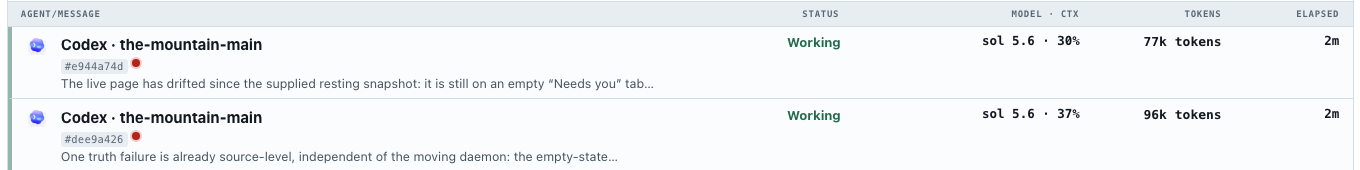
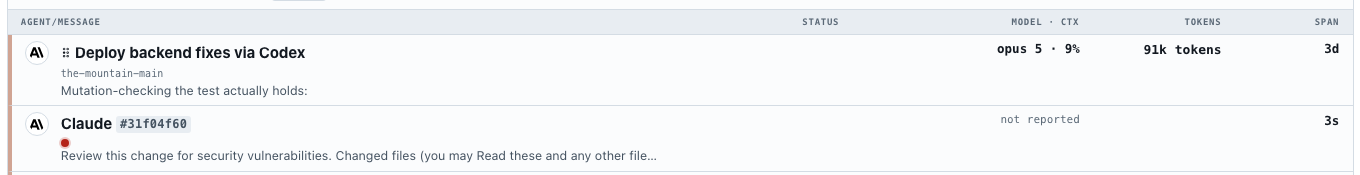
docs(guide): retake the row shot and rename Elapsed to Span
Captured on branch fix/backend-silent-failures-and-freshness at fe54c05, with
the service verified stable first — same pid 55609 and health 200 across three
probes four seconds apart, so nothing here is a mid-restart frame.

shot-5-row was the stale one. It showed the column header "ELAPSED", renamed to
"Span" by fe54c05, and it printed "Working" in the status column, which the
current build never renders — 74001c4 stopped printing what the tab already
guarantees. The retake shows both: the header reads Span, and the status column
is genuinely blank, which is what the guide's status row now describes.

Elapsed becomes Span in the row table, with the meaning the fix gave it: first
activity to last activity, dormancy included, NOT time spent working. One agent
read 87.1 days and the arithmetic was right — startedAt really was 2026-05-06.
Safe to document because this fix has landed; verified at app.js:3696.

HELD, and this is the part worth flagging. "N done this hour" is magnitude-audit
item 1, the worst of the six and the only one whose error is unbounded — it
counts state transitions rather than completions, can count one agent twice, and
never verifies success, so the true number could be zero while the board reads
17. fe54c05 fixed items 2, 3, 5 and 6. Item 1 is not fixed and no commit
addresses it.

Every possible summary-band frame contains it — the collapsed line reads "N done
this hour" and the expanded Momentum card reads "N done in Nm observed" — so I
[…]

diff --git a/ANT-GUIDE.md b/ANT-GUIDE.md
@@ -64,7 +64,7 @@ Every row is **one AI session**. Left to right:
 | Status | Often blank, on purpose. It prints only what the tab does not already guarantee — so `Working` never appears, and on the `Working`, `Idle` and `History` tabs the column stays quiet entirely. A word here means something you would not have assumed: `Idle` on a mixed tab, or `Alert`, `Blocked`, `Failed`. Hover for the full state. |
 | Model · ctx | Which model, and how full its context window is |
 | Tokens | How much it has used |
-| Elapsed | How long since it last moved |
+| Span | First activity to last activity — **including every hour it sat dormant.** Not time spent working. A session showing `3d` may have worked for ten minutes of it. |
 
 A row indented under another with `↳` is a **subagent** — something the row above
 it launched.
